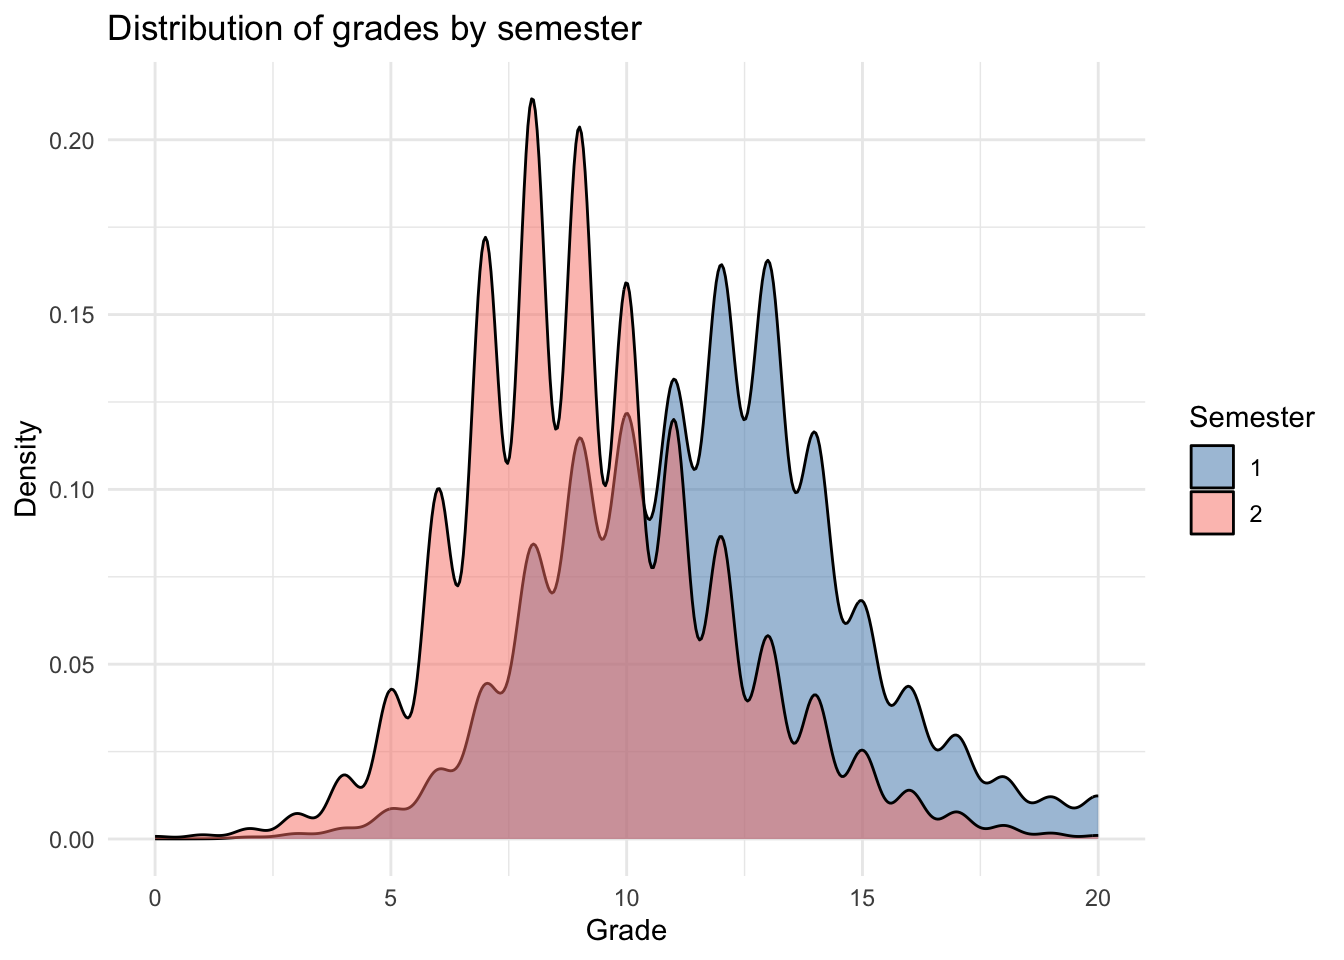
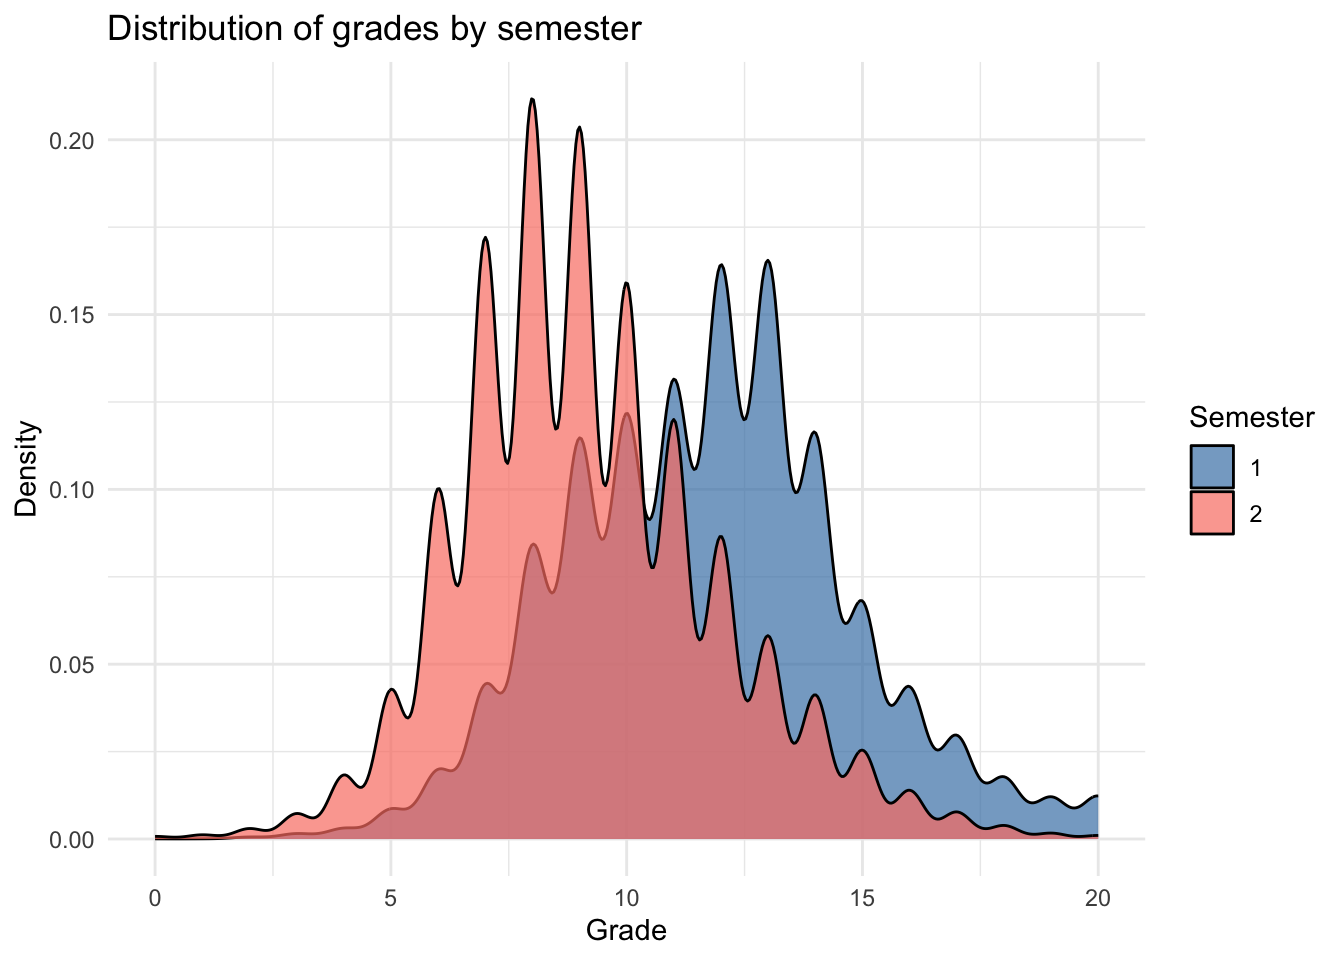
10:05

Changed region(s): [[0.1562, 0.125, 0.8438, 0.875], [0.875, 0.4688, 0.9375, 0.5625]]

diff --git a/mazere.html b/mazere.html
@@ -597,15 +597,14 @@ pre > code.sourceCode > span > a:first-child::before { text-decoration: underlin
 <span id="cb15-2"><a href="#cb15-2" aria-hidden="true" tabindex="-1"></a>  <span class="fu">inner_join</span>(courses, <span class="at">by =</span> <span class="st">"course_id"</span>) <span class="sc">|&gt;</span></span>
 <span id="cb15-3"><a href="#cb15-3" aria-hidden="true" tabindex="-1"></a>  <span class="fu">filter</span>(<span class="sc">!</span><span class="fu">is.na</span>(grade)) <span class="sc">|&gt;</span></span>
 <span id="cb15-4"><a href="#cb15-4" aria-hidden="true" tabindex="-1"></a>  <span class="fu">ggplot</span>(<span class="fu">aes</span>(<span class="at">x =</span> grade, <span class="at">fill =</span> <span class="fu">factor</span>(semester))) <span class="sc">+</span></span>
-<span id="cb15-5"><a href="#cb15-5" aria-hidden="true" tabindex="-1"></a>  <span class="fu">geom_density</span>(<span class="at">alpha =</span> <span class="fl">0.5</span>) <span class="sc">+</span></span>
+<span id="cb15-5"><a href="#cb15-5" aria-hidden="true" tabindex="-1"></a>  <span class="fu">geom_density</span>(<span class="at">alpha =</span> <span class="fl">0.7</span>) <span class="sc">+</span></span>
 <span id="cb15-6"><a href="#cb15-6" aria-hidden="true" tabindex="-1"></a>  <span class="fu">scale_fill_manual</span>(<span class="at">values =</span> <span class="fu">c</span>(<span class="st">"steelblue"</span>, <span class="st">"salmon"</span>)) <span class="sc">+</span></span>
 <span id="cb15-7"><a href="#cb15-7" aria-hidden="true" tabindex="-1"></a>  <span class="fu">labs</span>(</span>
 <span id="cb15-8"><a href="#cb15-8" aria-hidden="true" tabindex="-1"></a>    <span class="at">title =</span> <span class="st">"Distribution of grades by semester"</span>,</span>
 <span id="cb15-9"><a href="#cb15-9" aria-hidden="true" tabindex="-1"></a>    <span class="at">x =</span> <span class="st">"Grade"</span>,</span>
 <span id="cb15-10"><a href="#cb15-10" aria-hidden="true" tabindex="-1"></a>    <span class="at">y =</span> <span class="st">"Density"</span>,</span>
-<span id="cb15-11"><a href="#cb15-11" aria-hidden="true" tabindex="-1"></a>    <span class="at">fill =</span> <span class="st">"Semester"</span></span>
-<span id="cb15-12"><a href="#cb15-12" aria-hidden="true" tabindex="-1"></a>  ) <span class="sc">+</span></span>
-<span id="cb15-13"><a href="#cb15-13" aria-hidden="true" tabindex="-1"></a>  <span class="fu">theme_minimal</span>()</span></code></pre></div><button title="Copy to Clipboard" class="code-copy-button"><i class="bi"></i></button></div>
+<span id="cb15-11"><a href="#cb15-11" aria-hidden="true" tabindex="-1"></a>    <span class="at">fill =</span> <span class="st">"Semester"</span>) <span class="sc">+</span></span>
+<span id="cb15-12"><a href="#cb15-12" aria-hidden="true" tabindex="-1"></a>  <span class="fu">theme_minimal</span>()</span></code></pre></div><button title="Copy to Clipboard" class="code-copy-button"><i class="bi"></i></button></div>
 </details>
 <div class="cell-output-display">
 <div>
@@ -613,6 +612,130 @@ pre > code.sourceCode > span > a:first-child::before { text-decoration: underlin
 <p><img src="mazere_files/figure-html/unnamed-chunk-13-1.png" class="img-fluid figure-img" width="672"></p>
 </figure>
 </div>
+</div>
+</div>
+</section>
+<section id="attendance-analysis" class="level1">
+<h1>Attendance analysis</h1>
+<p><strong>Question 13</strong></p>
+<p>Compute the number of grades per student and include in your quarto rendering an extract of the resulting data frame. Make sure to keep in the data frame the id of the students but also their group and their sex. Include in the text a markdown table with the minimum, maximum, average and median number of grades per student.</p>
+<div class="cell">
+<details class="code-fold">
+<summary>Code</summary>
+<div class="code-copy-outer-scaffold"><div class="sourceCode cell-code" id="cb16"><pre class="sourceCode r code-with-copy"><code class="sourceCode r"><span id="cb16-1"><a href="#cb16-1" aria-hidden="true" tabindex="-1"></a>grades <span class="sc">|&gt;</span></span>
+<span id="cb16-2"><a href="#cb16-2" aria-hidden="true" tabindex="-1"></a>  <span class="fu">filter</span>(<span class="sc">!</span><span class="fu">is.na</span>(grade)) <span class="sc">|&gt;</span></span>
+<span id="cb16-3"><a href="#cb16-3" aria-hidden="true" tabindex="-1"></a>  <span class="fu">count</span>(id, <span class="at">name =</span> <span class="st">"n_grades"</span>) <span class="sc">|&gt;</span></span>
+<span id="cb16-4"><a href="#cb16-4" aria-hidden="true" tabindex="-1"></a>  <span class="fu">inner_join</span>(students, <span class="at">by =</span> <span class="st">"id"</span>) <span class="sc">|&gt;</span></span>
+<span id="cb16-5"><a href="#cb16-5" aria-hidden="true" tabindex="-1"></a>  <span class="fu">select</span>(id, group, sex, n_grades) <span class="sc">|&gt;</span></span>
+<span id="cb16-6"><a href="#cb16-6" aria-hidden="true" tabindex="-1"></a>  <span class="fu">slice_sample</span>(<span class="at">n=</span><span class="dv">10</span>) <span class="sc">|&gt;</span></span>
+<span id="cb16-7"><a href="#cb16-7" aria-hidden="true" tabindex="-1"></a>  <span class="fu">kable</span>()</span></code></pre></div><button title="Copy to Clipboard" class="code-copy-button"><i class="bi"></i></button></div>
+</details>
+<div class="cell-output-display">
+<table class="caption-top table table-sm table-striped small">
+<thead>
+<tr class="header">
+<th style="text-align: right;">id</th>
+<th style="text-align: left;">group</th>
+<th style="text-align: left;">sex</th>
+<th style="text-align: right;">n_grades</th>
+</tr>
+</thead>
+<tbody>
+<tr class="odd">
+<td style="text-align: right;">619</td>
+<td style="text-align: left;">2</td>
+<td style="text-align: left;">F</td>
+<td style="text-align: right;">63</td>
+</tr>
+<tr class="even">
+<td style="text-align: right;">76</td>
+<td style="text-align: left;">11</td>
+<td style="text-align: left;">M</td>
+<td style="text-align: right;">63</td>
+</tr>
+<tr class="odd">
+<td style="text-align: right;">34</td>
+<td style="text-align: left;">1</td>
+<td style="text-align: left;">F</td>
+<td style="text-align: right;">63</td>
+</tr>
+<tr class="even">
+<td style="text-align: right;">552</td>
+<td style="text-align: left;">15</td>
+<td style="text-align: left;">F</td>
+<td style="text-align: right;">64</td>
+</tr>
+<tr class="odd">
+<td style="text-align: right;">290</td>
+<td style="text-align: left;">6</td>
+<td style="text-align: left;">F</td>
+<td style="text-align: right;">62</td>
+</tr>
+<tr class="even">
+<td style="text-align: right;">276</td>
+<td style="text-align: left;">12</td>
+<td style="text-align: left;">F</td>
+<td style="text-align: right;">63</td>
+</tr>
+<tr class="odd">
+<td style="text-align: right;">582</td>
+<td style="text-align: left;">9</td>
+<td style="text-align: left;">F</td>
+<td style="text-align: right;">62</td>
+</tr>
+<tr class="even">
+<td style="text-align: right;">841</td>
+<td style="text-align: left;">2</td>
+<td style="text-align: left;">M</td>
+<td style="text-align: right;">62</td>
+</tr>
+<tr class="odd">
+<td style="text-align: right;">757</td>
+<td style="text-align: left;">8</td>
+<td style="text-align: left;">M</td>
+<td style="text-align: right;">63</td>
+</tr>
+<tr class="even">
+<td style="text-align: right;">682</td>
+<td style="text-align: left;">7</td>
+<td style="text-align: left;">F</td>
+<td style="text-align: right;">61</td>
+</tr>
+</tbody>
+</table>
+</div>
+<details class="code-fold">
+<summary>Code</summary>
+<div class="code-copy-outer-scaffold"><div class="sourceCode cell-code" id="cb17"><pre class="sourceCode r code-with-copy"><code class="sourceCode r"><span id="cb17-1"><a href="#cb17-1" aria-hidden="true" tabindex="-1"></a>grades <span class="sc">|&gt;</span></span>
+<span id="cb17-2"><a href="#cb17-2" aria-hidden="true" tabindex="-1"></a>  <span class="fu">filter</span>(<span class="sc">!</span><span class="fu">is.na</span>(grade)) <span class="sc">|&gt;</span></span>
+<span id="cb17-3"><a href="#cb17-3" aria-hidden="true" tabindex="-1"></a>  <span class="fu">count</span>(id, <span class="at">name =</span> <span class="st">"n_grades"</span>) <span class="sc">|&gt;</span></span>
+<span id="cb17-4"><a href="#cb17-4" aria-hidden="true" tabindex="-1"></a>  <span class="fu">summarise</span>(</span>
+<span id="cb17-5"><a href="#cb17-5" aria-hidden="true" tabindex="-1"></a>    <span class="at">min    =</span> <span class="fu">min</span>(n_grades),</span>
+<span id="cb17-6"><a href="#cb17-6" aria-hidden="true" tabindex="-1"></a>    <span class="at">max    =</span> <span class="fu">max</span>(n_grades),</span>
+<span id="cb17-7"><a href="#cb17-7" aria-hidden="true" tabindex="-1"></a>    <span class="at">mean   =</span> <span class="fu">round</span>(<span class="fu">mean</span>(n_grades),<span class="dv">1</span>),</span>
+<span id="cb17-8"><a href="#cb17-8" aria-hidden="true" tabindex="-1"></a>    <span class="at">median =</span> <span class="fu">median</span>(n_grades)</span>
+<span id="cb17-9"><a href="#cb17-9" aria-hidden="true" tabindex="-1"></a>  ) <span class="sc">|&gt;</span></span>
+<span id="cb17-10"><a href="#cb17-10" aria-hidden="true" tabindex="-1"></a>  <span class="fu">kable</span>()</span></code></pre></div><button title="Copy to Clipboard" class="code-copy-button"><i class="bi"></i></button></div>
+</details>
+<div class="cell-output-display">
+<table class="caption-top table table-sm table-striped small">
+<thead>
+<tr class="header">
+<th style="text-align: right;">min</th>
+<th style="text-align: right;">max</th>
+<th style="text-align: right;">mean</th>
+<th style="text-align: right;">median</th>
+</tr>
+</thead>
+<tbody>
+<tr class="odd">
+<td style="text-align: right;">55</td>
+<td style="text-align: right;">64</td>
+<td style="text-align: right;">62.3</td>
+<td style="text-align: right;">62</td>
+</tr>
+</tbody>
+</table>
 </div>
 </div>
 </section>
